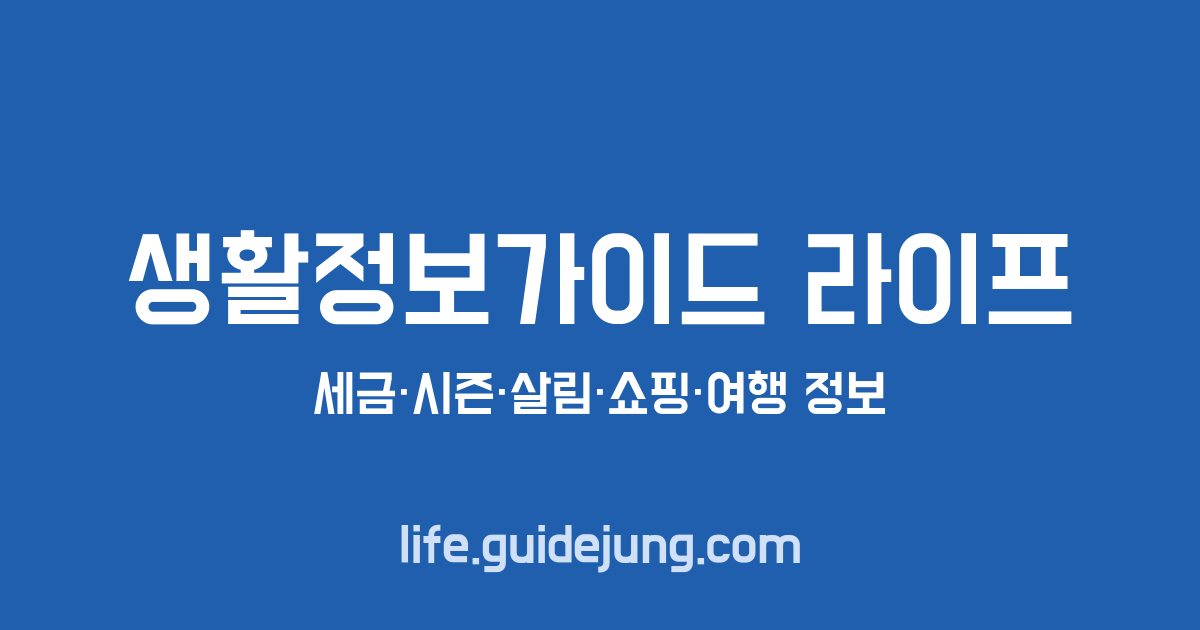
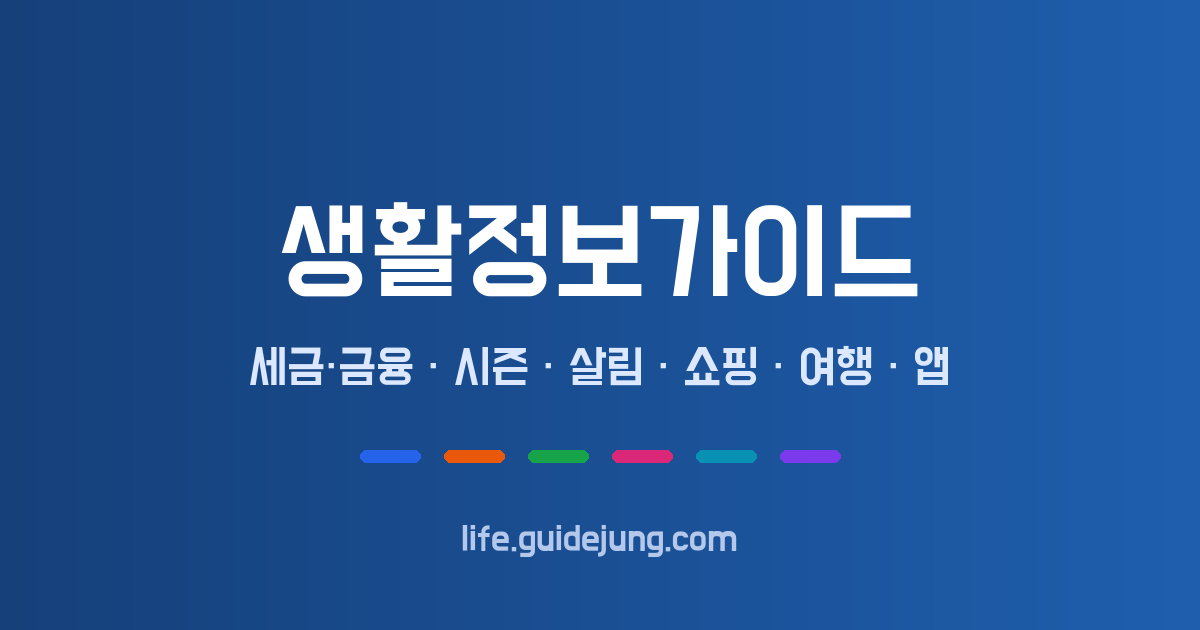
Rename site to 생활정보가이드 and refresh design (header, category colors, home tiles)

diff --git a/static/style.css b/static/style.css
@@ -1,54 +1,92 @@
-:root{--ink:#222;--muted:#666;--line:#e3e3e3;--accent:#1f5fae;--bg:#fff;--soft:#f6f7f9}
-@media (prefers-color-scheme:dark){:root{--ink:#e8e8e8;--muted:#a3a3a3;--line:#333;--accent:#7fb0ff;--bg:#141414;--soft:#1d1d1d}}
+:root{--ink:#1d2330;--muted:#667085;--line:#e6e8ee;--accent:#1f5fae;--bg:#fff;--soft:#f5f7fb;--card:#fff;--head:#16407a;--head2:#1f5fae}
+@media (prefers-color-scheme:dark){:root{--ink:#e9ecf2;--muted:#9aa3b2;--line:#2c313b;--accent:#7fb0ff;--bg:#111318;--soft:#1a1d24;--card:#181b22;--head:#132a4d;--head2:#1b3d70}}
+/* 분류 색 */
+.k-money{--c:#2563eb}.k-season{--c:#ea580c}.k-life{--c:#16a34a}.k-shopping{--c:#db2777}.k-travel{--c:#0891b2}.k-it{--c:#7c3aed}
+@media (prefers-color-scheme:dark){.k-money{--c:#7aa7ff}.k-season{--c:#fb923c}.k-life{--c:#4ade80}.k-shopping{--c:#f472b6}.k-travel{--c:#22d3ee}.k-it{--c:#a78bfa}}
 *{box-sizing:border-box}
-body{margin:0;background:var(--bg);color:var(--ink);font:16px/1.75 -apple-system,BlinkMacSystemFont,"Malgun Gothic","Apple SD Gothic Neo",sans-serif;word-break:keep-all}
+body{margin:0;background:var(--bg);color:var(--ink);font:16px/1.75 -apple-system,BlinkMacSystemFont,"Pretendard","Malgun Gothic","Apple SD Gothic Neo",sans-serif;word-break:keep-all}
 a{color:inherit}
-.wrap{max-width:980px;margin:0 auto;padding:0 16px}
-.skip{position:absolute;left:-999px}.skip:focus{left:8px;top:8px;background:var(--bg);padding:6px}
+.wrap{max-width:1000px;margin:0 auto;padding:0 16px}
+.skip{position:absolute;left:-999px}.skip:focus{left:8px;top:8px;background:var(--bg);padding:6px;z-index:9}
 .sr{position:absolute;width:1px;height:1px;overflow:hidden;clip:rect(0 0 0 0)}
-header{border-bottom:2px solid var(--ink)}
-.top{display:flex;align-items:center;justify-content:space-between;gap:12px;padding:18px 16px 10px}
-.brand{font-size:22px;font-weight:800;text-decoration:none}
-.search{display:flex}.search input{width:180px;padding:6px 8px;border:1px solid var(--line);background:var(--bg);color:var(--ink)}
-.search button{padding:6px 10px;border:1px solid var(--line);border-left:0;background:var(--soft);color:var(--ink);cursor:pointer}
-.gnb{display:flex;flex-wrap:wrap;gap:4px 18px;padding:8px 16px 12px;font-weight:700}
-.gnb a{text-decoration:none}.gnb a:hover{color:var(--accent)}
-main{padding:24px 16px 48px;min-height:60vh}
-h1{font-size:26px;line-height:1.4;margin:0 0 12px}
-.intro{color:var(--muted);margin-top:0}
-.board{width:100%;border-collapse:collapse;border-top:1px solid var(--ink)}
+
+/* 머리 */
+header{background:linear-gradient(120deg,var(--head),var(--head2));color:#fff}
+.top{display:flex;align-items:center;justify-content:space-between;gap:12px;padding:16px}
+.brand{display:flex;align-items:center;gap:10px;font-size:23px;font-weight:800;text-decoration:none;letter-spacing:-.5px}
+.brand img{border-radius:8px;box-shadow:0 0 0 2px rgba(255,255,255,.35)}
+.search{display:flex;background:rgba(255,255,255,.14);border-radius:999px;padding:3px;border:1px solid rgba(255,255,255,.25)}
+.search input{width:190px;padding:6px 12px;border:0;background:transparent;color:#fff;font:inherit;font-size:14px;outline:0}
+.search input::placeholder{color:rgba(255,255,255,.7)}
+.search button{padding:5px 14px;border:0;border-radius:999px;background:#fff;color:var(--head);font-weight:700;font-size:14px;cursor:pointer}
+.gnb{position:sticky;top:0;z-index:5;background:var(--bg);border-bottom:1px solid var(--line);box-shadow:0 2px 8px rgba(0,0,0,.04)}
+.gnb .wrap{display:flex;gap:6px;overflow-x:auto;padding-top:10px;padding-bottom:10px;scrollbar-width:none}
+.gnb a{flex:none;padding:6px 14px;border-radius:999px;font-weight:700;font-size:15px;text-decoration:none;color:var(--muted)}
+.gnb a::before{content:"";display:inline-block;width:7px;height:7px;border-radius:50%;background:var(--c,var(--accent));margin-right:7px;vertical-align:2px}
+.gnb a:hover{color:var(--ink);background:var(--soft)}
+.gnb a[aria-current]{color:#fff;background:var(--c,var(--accent))}
+.gnb a[aria-current]::before{background:#fff}
+
+main{padding:28px 16px 56px;min-height:60vh}
+h1{font-size:27px;line-height:1.4;margin:0 0 12px;letter-spacing:-.5px}
+.intro{color:var(--muted);margin:0}
+
+/* 첫 화면 */
+.hello h1{font-size:24px;margin:0 0 4px}
+.hello p{color:var(--muted);margin:0 0 20px}
+.tiles{list-style:none;padding:0;margin:0 0 36px;display:grid;grid-template-columns:repeat(3,1fr);gap:12px}
+.tiles a{display:block;height:100%;padding:16px 18px;border:1px solid var(--line);border-top:4px solid var(--c);border-radius:12px;background:var(--card);text-decoration:none;transition:transform .15s,box-shadow .15s}
+.tiles a:hover{transform:translateY(-2px);box-shadow:0 6px 18px rgba(0,0,0,.08)}
+.tiles b{display:block;font-size:17px;color:var(--c);margin-bottom:4px}
+.tiles span{display:block;font-size:14px;line-height:1.6;color:var(--muted)}
+.board-h{font-size:19px;margin:0 0 10px}
+.cat-head{padding:22px 24px;margin-bottom:24px;border-radius:14px;background:var(--soft);border-left:6px solid var(--c)}
+.cat-head h1{color:var(--c);margin-bottom:4px}
+
+/* 게시판 */
+.board{width:100%;border-collapse:collapse;border-top:2px solid var(--ink)}
 .board th{font-size:14px;font-weight:700;padding:10px 8px;border-bottom:1px solid var(--line);background:var(--soft)}
-.board td{padding:11px 8px;border-bottom:1px solid var(--line);font-size:15px}
+.board td{padding:12px 8px;border-bottom:1px solid var(--line);font-size:15px}
+.board tbody tr:hover{background:var(--soft)}
 .board .c-cat,.board .c-date,.board .c-author{white-space:nowrap;text-align:center;color:var(--muted);font-size:14px}
-.board .c-cat a{text-decoration:none}
-.board .c-title a{text-decoration:none}.board .c-title a:hover{color:var(--accent);text-decoration:underline}
+.board .c-title a{text-decoration:none;font-weight:500}.board .c-title a:hover{color:var(--accent);text-decoration:underline}
+.chip{display:inline-block;padding:2px 10px;border-radius:999px;font-size:13px;font-weight:700;text-decoration:none;color:var(--c);background:color-mix(in srgb,var(--c) 12%,transparent)}
 .pager{display:flex;flex-wrap:wrap;gap:6px;justify-content:center;margin:24px 0}
-.pager a,.pager b{min-width:34px;padding:4px 8px;text-align:center;border:1px solid var(--line);text-decoration:none}
-.pager b{background:var(--ink);color:var(--bg);border-color:var(--ink)}
-.empty{padding:40px 0;text-align:center;color:var(--muted)}
+.pager a,.pager b{min-width:36px;padding:5px 9px;text-align:center;border:1px solid var(--line);border-radius:8px;text-decoration:none}
+.pager b{background:var(--accent);color:#fff;border-color:var(--accent)}
+.empty{padding:48px 0;text-align:center;color:var(--muted);border-bottom:1px solid var(--line)}
+
+/* 글 */
 .post{max-width:760px}
-.crumbs{font-size:14px;color:var(--muted);margin-bottom:8px}.crumbs a{text-decoration:none}
+.crumbs{font-size:14px;color:var(--muted);margin-bottom:10px}.crumbs>a:first-child{text-decoration:none}
 .meta{display:flex;flex-wrap:wrap;gap:4px 14px;color:var(--muted);font-size:14px;padding-bottom:14px;border-bottom:1px solid var(--line)}
-.hero{width:100%;height:auto;margin:20px 0;border-radius:6px}
-.lead{font-size:17px;padding:16px 18px;background:var(--soft);border-radius:6px}
-.post h2{font-size:21px;margin:36px 0 10px;padding-left:10px;border-left:4px solid var(--accent)}
-.tbl{overflow-x:auto;margin:14px 0}
+.hero{width:100%;height:auto;margin:20px 0;border-radius:10px}
+.lead{font-size:17px;padding:18px 20px;background:var(--soft);border-left:4px solid var(--accent);border-radius:0 10px 10px 0}
+.post h2{font-size:21px;margin:40px 0 12px;padding-bottom:8px;border-bottom:2px solid var(--line);position:relative}
+.post h2::after{content:"";position:absolute;left:0;bottom:-2px;width:48px;height:2px;background:var(--accent)}
+.tbl{overflow-x:auto;margin:14px 0;border-radius:10px;border:1px solid var(--line)}
 .post table{width:100%;border-collapse:collapse;font-size:15px}
-.post th,.post td{border:1px solid var(--line);padding:8px 10px;text-align:left}
-.post th{background:var(--soft)}
-.faq{border:1px solid var(--line);border-radius:6px;padding:10px 14px;margin:8px 0}
-.faq summary{font-weight:700;cursor:pointer}.faq p{margin:8px 0 0}
+.post th,.post td{border-bottom:1px solid var(--line);padding:9px 12px;text-align:left}
+.post tr:last-child td{border-bottom:0}
+.post th{background:var(--soft);font-weight:700}
+.faq{border:1px solid var(--line);border-radius:10px;padding:12px 16px;margin:8px 0;background:var(--card)}
+.faq summary{font-weight:700;cursor:pointer}.faq summary::before{content:"Q. ";color:var(--accent)}
+.faq p{margin:8px 0 0}
 .sources{font-size:14px}
-.note{font-size:14px;color:var(--muted);border-top:1px solid var(--line);padding-top:12px;margin-top:32px}
+.note{font-size:14px;color:var(--muted);background:var(--soft);border-radius:10px;padding:12px 16px;margin-top:32px}
 .prevnext{display:flex;justify-content:space-between;gap:16px;margin:28px 0;font-size:14px;max-width:760px}
 .prevnext a{text-decoration:none;color:var(--muted)}.prevnext a:hover{color:var(--accent)}
 .related{margin-top:32px}.related h2{font-size:18px}
-footer{border-top:1px solid var(--line);color:var(--muted);font-size:14px;padding:18px 0}
-footer a{text-decoration:none}
+
+footer{background:var(--soft);border-top:1px solid var(--line);color:var(--muted);font-size:14px;padding:22px 0}
+footer a{text-decoration:none}footer a:hover{color:var(--accent)}
 @media (max-width:640px){
   h1{font-size:22px}
-  .brand{font-size:19px}
-  .search input{width:120px}
+  .top{flex-wrap:wrap}
+  .brand{font-size:20px}
+  .search{flex:1 1 100%}.search input{flex:1;width:auto}
+  .tiles{grid-template-columns:1fr 1fr;gap:8px}
+  .tiles a{padding:12px 14px}.tiles span{display:none}
   .board .c-author,.board .c-cat{display:none}
   .board .c-date{font-size:12px}
 }

diff --git a/CLAUDE.md b/CLAUDE.md
@@ -1,4 +1,4 @@
-# life.guidejung.com (생활정보가이드 라이프) 운영 안내
+# life.guidejung.com (생활정보가이드) 운영 안내
 
 이 폴더는 https://life.guidejung.com 의 소스입니다. 세금·금융, 시즌 행사, 살림·요리, 쇼핑, 여행, 앱 사용법을 게시판형 목록으로 보여 주는 정적 사이트입니다. guideruri.com(`D:\guidejung\key\digital-guide-site`)과 같은 방식으로 운영합니다.
 
